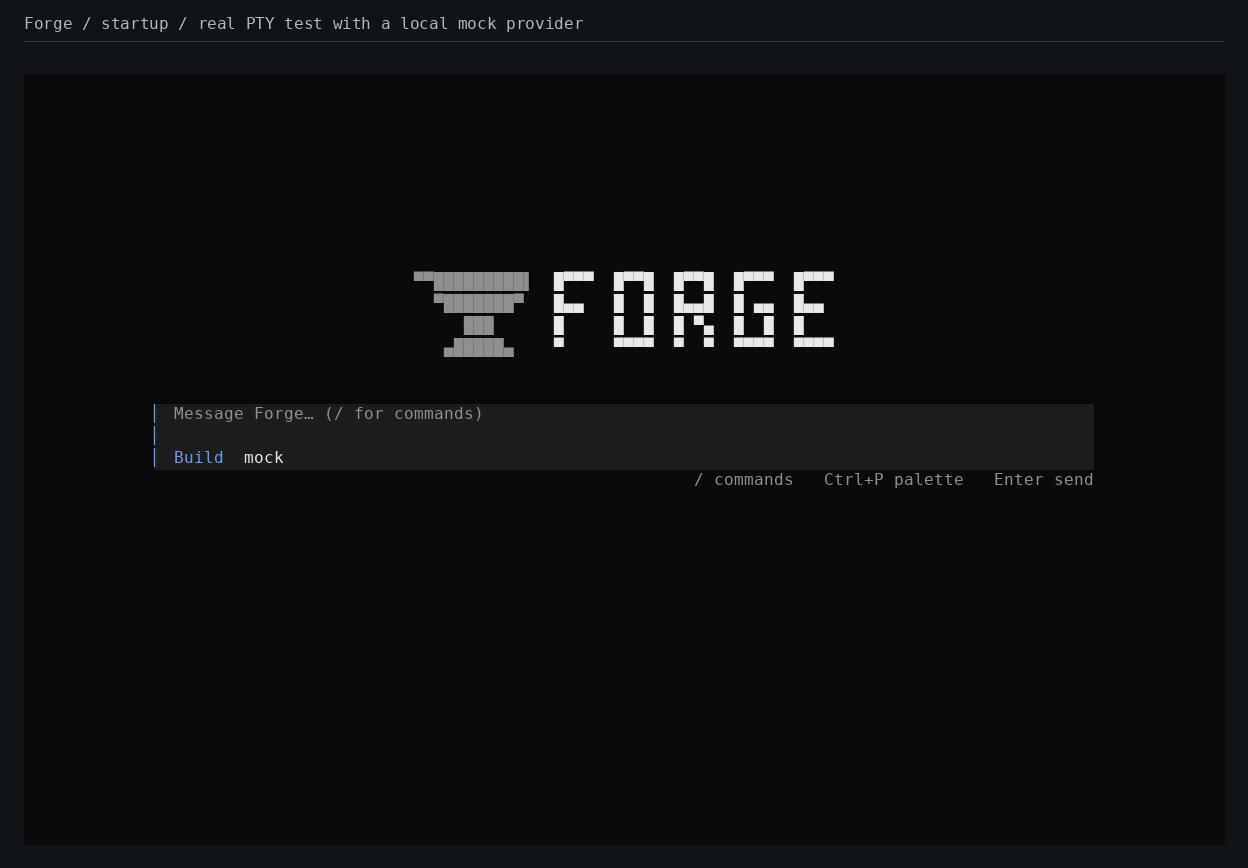
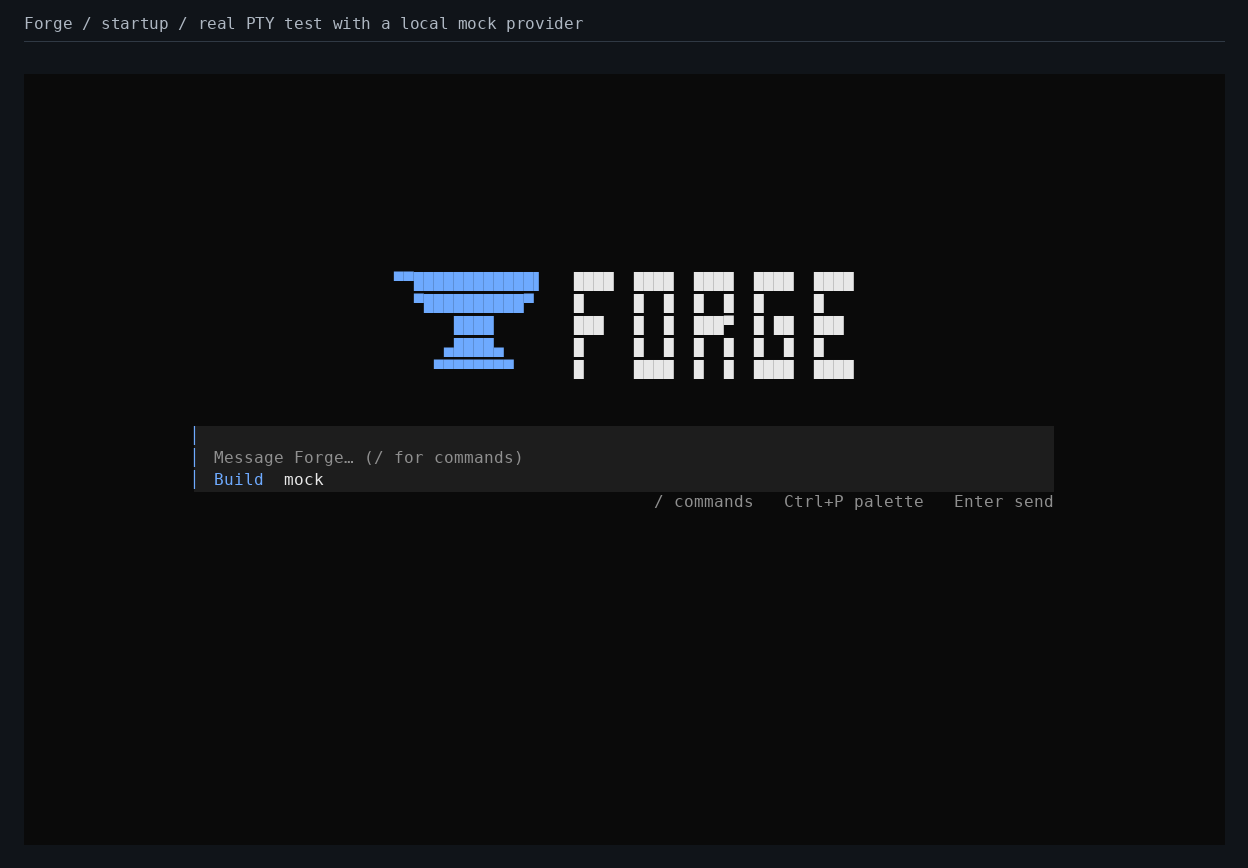
Show the new Forge TUI with real terminal captures

diff --git a/README.md b/README.md
@@ -8,6 +8,8 @@ A Rust coding agent with a full-screen terminal interface, explicit edit/command
 
 Forge opens to a centered pixel anvil, a block-letter wordmark, and one multiline composer. The working layout appears when you send your first prompt or resume a session with history.
 
+![Forge startup with a blue pixel anvil and a centered composer](docs/images/forge-home.png)
+
 ## What is implemented
 
 **New in v0.2.0-preview.1.** Type `/update` to fast-forward a clean Forge source checkout from GitHub `main`. Use `--refine` for an optional Rust planning pass inspired by Harness2, with per-stage records and Forge's existing spending limits. See the [preview release and platform downloads](https://github.com/N-Aymane/forge-harness/releases/tag/v0.2.0-preview.1).
@@ -55,6 +57,8 @@ forge --model claude
 
 The working view keeps the conversation above the composer and shows recent tool activity and request usage in a collapsible side rail. Narrow terminals hide the rail automatically. Proposed edits appear as colored inline diffs with keyboard approval controls below. Shell approvals show the command, shell, and working directory in the same review area.
 
+![Forge workbench with a proposed file diff, approval controls, and the activity and usage rail](docs/images/forge-inline-review.png)
+
 | Key | Action |
 | --- | --- |
 | Enter | Send a message when idle |
@@ -72,7 +76,9 @@ The working view keeps the conversation above the composer and shows recent tool
 
 Type `/` to open the command list, use the arrow keys to choose a command, and press Enter to run it. The menu includes `/panels`, `/usage`, `/cancel`, `/quit`, and `/update`. Esc closes the menu.
 
-The Linux CI job captures startup, slash filtering, inline approval, terminal resize, and the completed turn using a local mock provider. Download the `forge-test-screenshots` artifact from the [CI run for the branch](https://github.com/N-Aymane/forge-harness/actions/workflows/ci.yml).
+![Forge startup with the slash menu filtered to the usage command](docs/images/forge-slash-commands.png)
+
+These screenshots come from the terminal smoke test. The Linux CI job captures startup, slash filtering, inline approval, terminal resize, and the completed turn using a local mock provider. Download the `forge-test-screenshots` artifact from the [redesign CI run](https://github.com/N-Aymane/forge-harness/actions/runs/41868088577).
 
 `/update` fetches the public Forge repository's `main` and fast-forwards a clean Forge source checkout. Forge detects builds launched from the checkout's `target` folder. For an installed binary, set `FORGE_SOURCE_DIR` to the absolute path of the Forge clone before launching Forge. After a source update, quit Forge and run `cargo install --path . --locked --force` in that clone, or rebuild using the command you originally used. Then restart Forge with the new binary. Existing binaries need this version of Forge installed once to gain the slash command.
 
